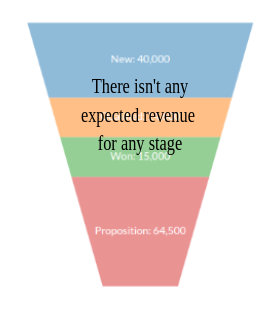
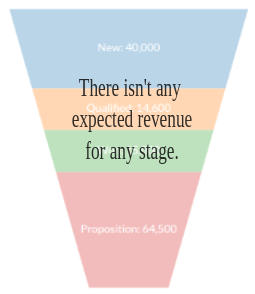
[WIP]

diff --git a/addons/crm/static/src/js/crm_opportunity_report.js b/addons/crm/static/src/js/crm_opportunity_report.js
@@ -15,7 +15,7 @@ var _t = core._t;
 var OpportunityReport = Widget.extend(ControlPanelMixin, {
     template: 'crm.pipelineReview',
     events: {
-        'click .o_funnelchart': '_onClickFunnelChart',
+        'click .o_funnelchart_graph': '_onClickFunnelChart',
         'click .o_click_action': '_onClickOpenOppBox',
     },
     /**
@@ -180,12 +180,12 @@ var OpportunityReport = Widget.extend(ControlPanelMixin, {
             var wonPercent = this.data.opportunity.won_opp.length * 100 / totalOpp;
             var lostPercent = 100 - wonPercent;
             var graphData = [{
-                    'label': this.currency.symbol + this.won_opp_amount,
-                    'value': wonPercent,
-                },
-                {
                     'label': this.currency.symbol + this.lost_opp_amount,
                     'value': lostPercent,
+                },
+                {
+                    'label': this.currency.symbol + this.won_opp_amount,
+                    'value': wonPercent,
                 }
             ];
             nv.addGraph(function() {
@@ -195,7 +195,7 @@ var OpportunityReport = Widget.extend(ControlPanelMixin, {
                     .labelType("percent")
                     .showLegend(false)
                     .margin({ "left": 0, "right": 0, "top": 0, "bottom": 0 })
-                    .color(['#00ff00', '#ff0000']);
+                    .color(['#ff0000', '#00ff00']);
             var svg = d3.select(".o_piechart_graph").append("svg");
 
             svg
@@ -285,6 +285,7 @@ var OpportunityReport = Widget.extend(ControlPanelMixin, {
      */
     _onClickFunnelChart: function(event) {
         event.preventDefault();
+        var self = this;
         this.do_action({
             name: 'pipeline',
             type: 'ir.actions.act_window',
@@ -299,17 +300,20 @@ var OpportunityReport = Widget.extend(ControlPanelMixin, {
         event.preventDefault();
         var $action = $(event.currentTarget);
         var domain = this.data.domain;
-
+        var context = {default_type: 'opportunity'}
         if ($action.attr('name') === 'Overdue Opportunity') {
             domain = [['id', 'in', this.data.opportunity.opp_overpassed]];
         } else if ($action.attr('name') === 'Pipeline to close') {
             domain = [['id', 'in', this.data.opportunity.opp_to_close]];
+        } else {
+            context.group_by = 'stage_id';
         }
 
         return this.do_action({
             name: $action.attr('name'),
             type: 'ir.actions.act_window',
             res_model: 'crm.lead',
+            context: context,
             views: [[false, 'kanban'], [false, 'form'], [false, 'list']],
             view_mode: "kanban",
             domain: domain,

diff --git a/addons/crm/static/src/css/crm_opportunity_report.less b/addons/crm/static/src/css/crm_opportunity_report.less
@@ -1,7 +1,3 @@
-.o_font_size{
-    font-size: 1.2em;
-}
-
 .o_foldable_menu {
     &.o_closed_menu {
         display: none;
@@ -21,14 +17,13 @@
     background-color: white;
     font-family: 'Lato', sans-serif;
 
-    strong {
-        font-size: 3.0em;
-    }
     .o_crm_opportunity_pipeline {
         display: flex;
         padding: 10px;
+        overflow-x: auto;
         .o_crm_stage {
             flex: 1;
+            min-width: 16%;
             position: relative;
             padding: 10px 20px;
             background: #e8e8e8;
@@ -46,6 +41,7 @@
                 font-weight: bold;
             }
             .percentage {
+                cursor: pointer;
                 font-size: 18px;
                 font-weight: bold;
             }
@@ -54,29 +50,35 @@
                     border-left-color: #e8e8e8;
                 }
             }
+            &:first-child {
+                text-align: center;
+                padding-top: 20px;
+            }
         }
     }
     .o_pipeline_content {
-        display: inline-flex;
-
-        .o_pipeline_side_box {
-            .o_font_size();
-            padding: 20px;
-            margin-top: 10%;
-            box-shadow: 0px 0px 1px 0px #666666;
-            position: relative;
-            min-height: 100px;
-        }
+        display: flex;
+        font-size: 1.2em;
         b {
-            font-size: 1.5em;
+            font-size: 1.6em;
         }
-        a {
-            cursor: pointer;
+        .o_crm_pipeline_box {
+            min-width: 30%;
+            .o_pipeline_side_box {
+                padding: 20px;
+                margin-top: 10%;
+                box-shadow: 0px 0px 1px 0px #666666;
+                position: relative;
+                min-height: 100px;
+            }
+            a {
+                cursor: pointer;
+            }
         }
 
         .o_deals {
             min-width: 7%;
-            margin: 12% 2% 5% 3%;
+            margin: 9% 2% 5% 3%;
         }
         .o_won_deals {
             color: green;
@@ -90,9 +92,8 @@
         }
         .o_funnel {
             cursor: pointer;
-            float: right;
+            right: 0;
             text-align: center;
-            .o_font_size();
         }
     }
 }

diff --git a/addons/crm/models/crm_lead.py b/addons/crm/models/crm_lead.py
@@ -286,7 +286,7 @@ class Lead(models.Model):
             vals['email_from'] = partner.email
         # context: no_log, because subtype already handle this
         record = super(Lead, self.with_context(context, mail_create_nolog=True)).create(vals)
-        if self._context.get('default_type') == 'opportunity':
+        if context.get('default_type') == 'opportunity':
             record.create_crm_opportunity_history(vals)
         return record
 

diff --git a/addons/crm/models/crm_history.py b/addons/crm/models/crm_history.py
@@ -70,7 +70,7 @@ class History(models.Model):
                 total_days += day_close.days
 
         if total_days != 0:
-            average_days = round(total_days / total_opp, 3)
+            average_days = round(total_days / total_opp)
         else:
             average_days = 0
 
